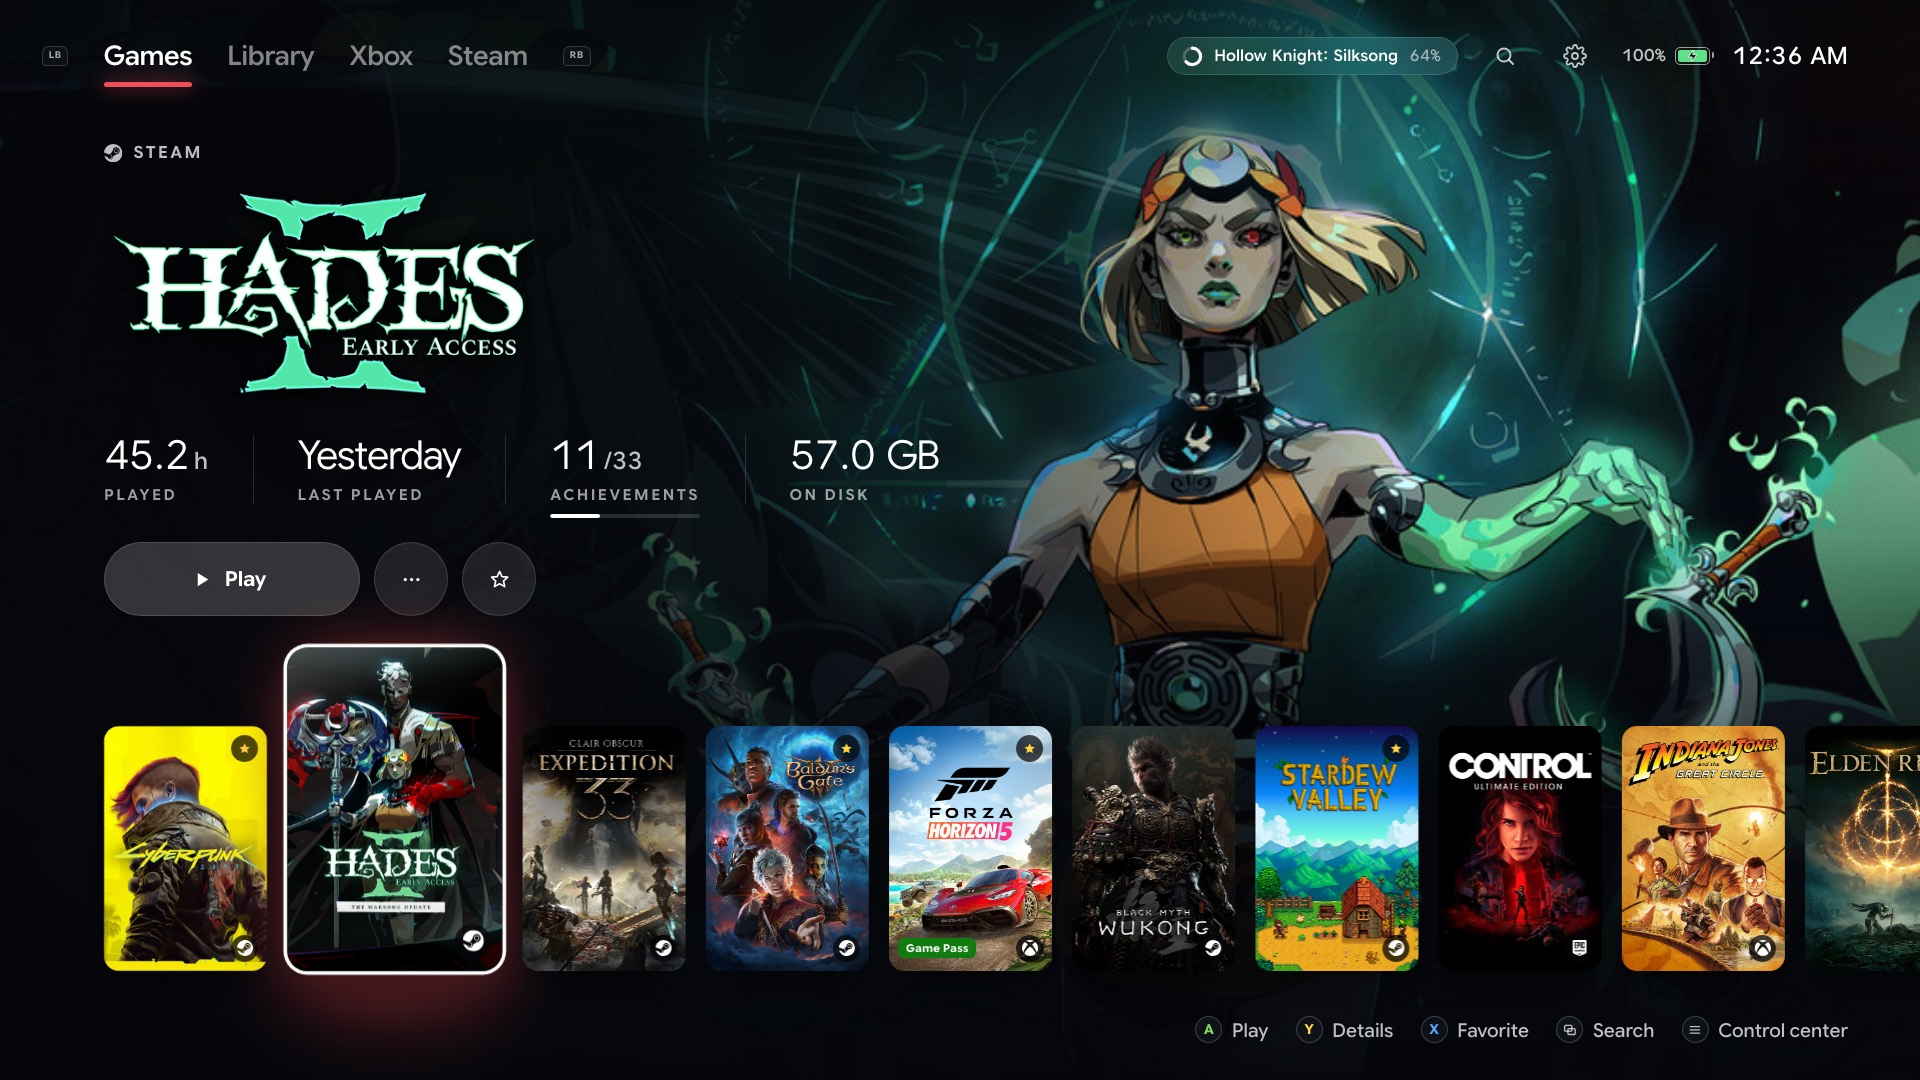
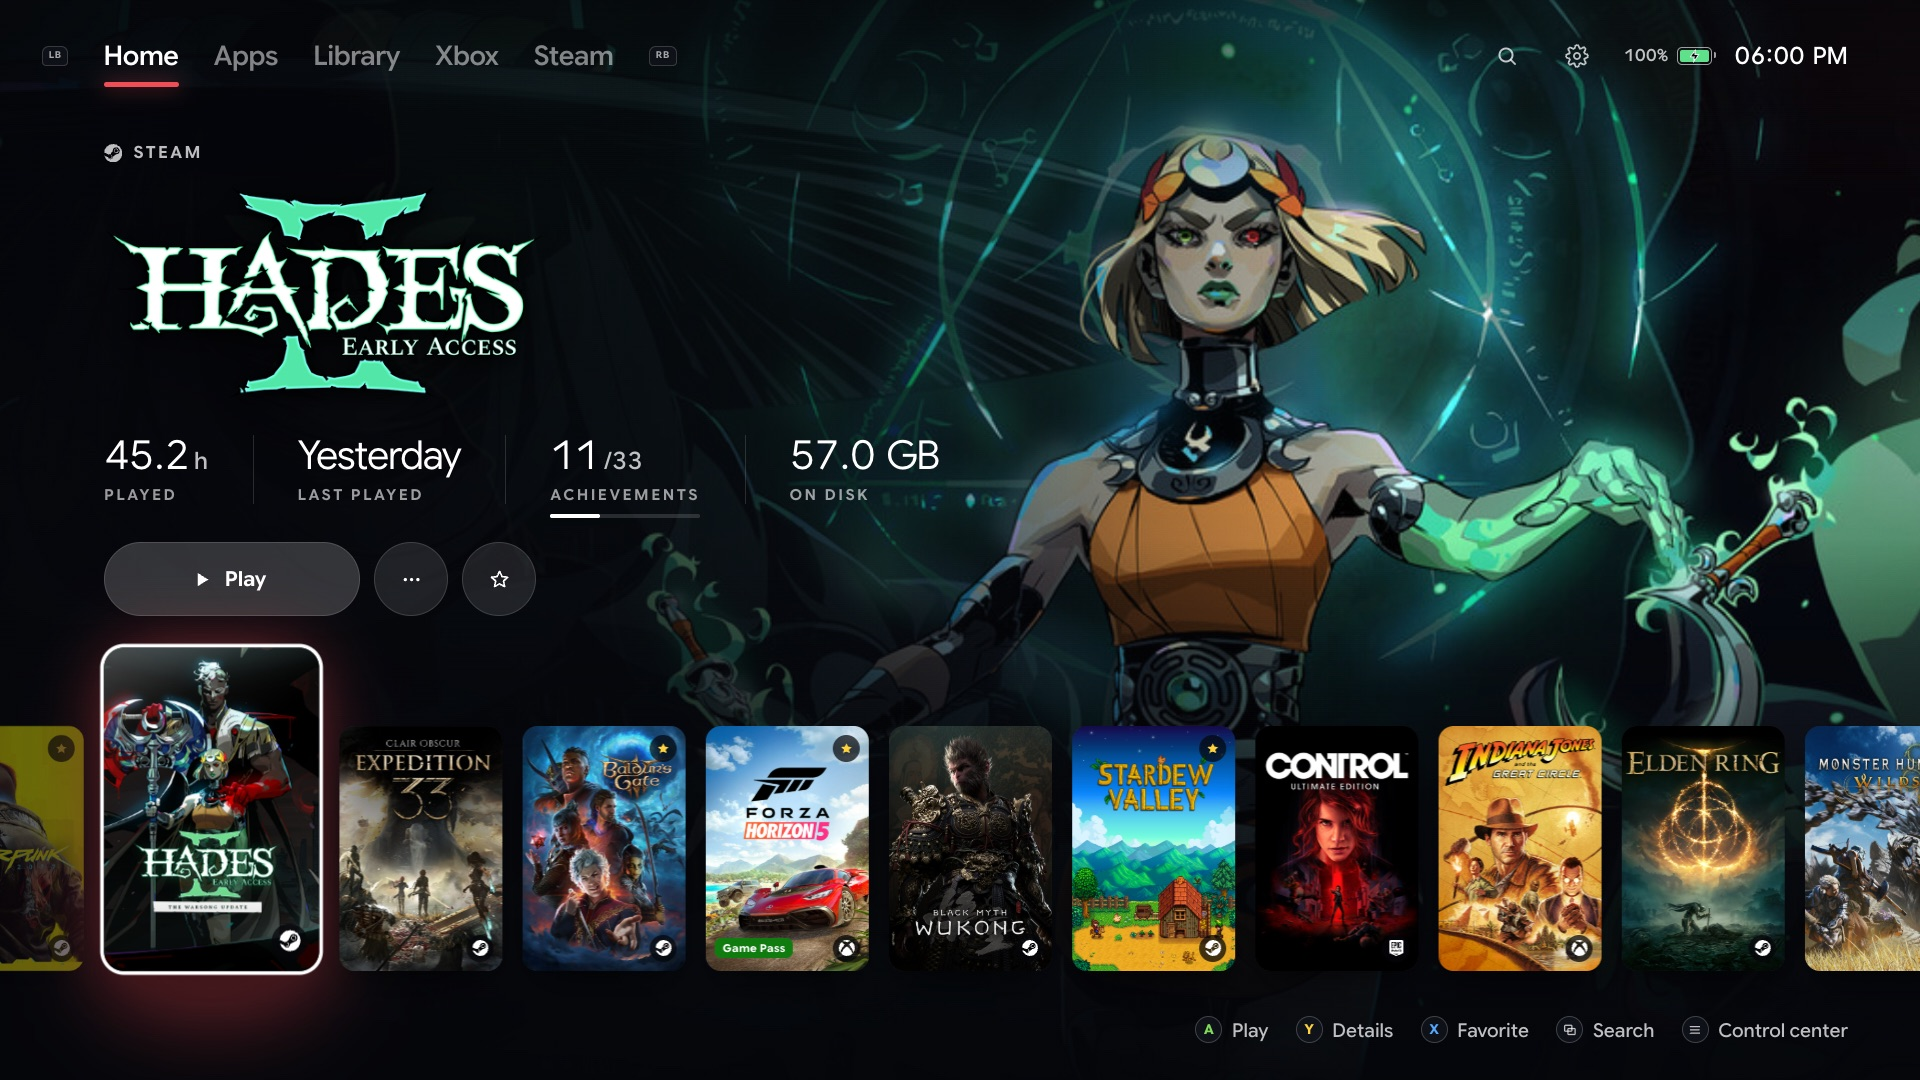
Retake the site's and README's screenshots with the Home tab

diff --git a/site/index.html b/site/index.html
@@ -264,10 +264,10 @@
             </div>
             <figure class="screen">
               <div class="screen-frame" id="screen" role="tabpanel" aria-labelledby="tab-home">
-                <img class="is-active" data-screen="home" src="/assets/img/home.webp?v=8" srcset="/assets/img/home-960.webp?v=8 960w, /assets/img/home.webp?v=8 1920w" sizes="(min-width: 1100px) 60vw, 100vw" width="1920" height="1080" alt="Mantel's Home screen: Hades II's art and logo with 45.2 hours played, a Play button, and a row of game covers below" fetchpriority="high">
-                <img data-screen="library" src="/assets/img/library.webp?v=9" srcset="/assets/img/library-960.webp?v=9 960w, /assets/img/library.webp?v=9 1920w" sizes="(min-width: 1100px) 60vw, 100vw" width="1920" height="1080" alt="Mantel's Library screen: a grid of game covers with filters for favorites, recent, most played, not installed and each store" loading="lazy">
-                <img data-screen="store" src="/assets/img/store.webp?v=9" srcset="/assets/img/store-960.webp?v=9 960w, /assets/img/store.webp?v=9 1920w" sizes="(min-width: 1100px) 60vw, 100vw" width="1920" height="1080" alt="Mantel's Steam tab showing the store: top sellers and new releases, with discounts on the covers." loading="lazy">
-                <img data-screen="details" src="/assets/img/details.webp?v=8" srcset="/assets/img/details-960.webp?v=8 960w, /assets/img/details.webp?v=8 1920w" sizes="(min-width: 1100px) 60vw, 100vw" width="1920" height="1080" alt="Mantel's game details screen for Hades II: playtime, Metacritic score, size on disk and Play, Favorite, Folder and Hide buttons" loading="lazy">
+                <img class="is-active" data-screen="home" src="/assets/img/home.webp?v=9" srcset="/assets/img/home-960.webp?v=9 960w, /assets/img/home.webp?v=9 1920w" sizes="(min-width: 1100px) 60vw, 100vw" width="1920" height="1080" alt="Mantel's Home screen: Hades II's art and logo with 45.2 hours played, a Play button, and a row of game covers below" fetchpriority="high">
+                <img data-screen="library" src="/assets/img/library.webp?v=10" srcset="/assets/img/library-960.webp?v=10 960w, /assets/img/library.webp?v=10 1920w" sizes="(min-width: 1100px) 60vw, 100vw" width="1920" height="1080" alt="Mantel's Library screen: a grid of game covers with filters for favorites, recent, most played, not installed and each store" loading="lazy">
+                <img data-screen="store" src="/assets/img/store.webp?v=10" srcset="/assets/img/store-960.webp?v=10 960w, /assets/img/store.webp?v=10 1920w" sizes="(min-width: 1100px) 60vw, 100vw" width="1920" height="1080" alt="Mantel's Steam tab showing the store: top sellers and new releases, with discounts on the covers." loading="lazy">
+                <img data-screen="details" src="/assets/img/details.webp?v=9" srcset="/assets/img/details-960.webp?v=9 960w, /assets/img/details.webp?v=9 1920w" sizes="(min-width: 1100px) 60vw, 100vw" width="1920" height="1080" alt="Mantel's game details screen for Hades II: playtime, Metacritic score, size on disk and Play, Favorite, Folder and Hide buttons" loading="lazy">
                 <div class="screen-gloss"></div>
                 <div class="shine"></div>
               </div>
@@ -309,42 +309,42 @@
         <div class="tour">
           <div class="tour-steps">
           <article class="step is-active" data-i="0" data-img="library" style="--z:1.12;--tx:-6.0%;--ty:-12.0%">
-            <div class="step-frame" aria-hidden="true"><img src="/assets/img/library.webp?v=9" alt="" width="1920" height="1080" loading="lazy" decoding="async"></div>
+            <div class="step-frame" aria-hidden="true"><img src="/assets/img/library.webp?v=10" alt="" width="1920" height="1080" loading="lazy" decoding="async"></div>
             <p class="eyebrow"><b>01</b> <span class="sep">/</span> 06 <span class="sep">·</span> Works on first launch</p>
             <h3 class="display">Finds your games</h3>
             <p class="step-text">Mantel finds installed games on its own: no plugins, no per-store setup.</p>
             <p class="step-where">Library · all games</p>
           </article>
           <article class="step" data-i="1" data-img="home" style="--z:2.6;--tx:-155.8%;--ty:-160.0%">
-            <div class="step-frame" aria-hidden="true"><img src="/assets/img/home.webp?v=8" alt="" width="1920" height="1080" loading="lazy" decoding="async"></div>
+            <div class="step-frame" aria-hidden="true"><img src="/assets/img/home.webp?v=9" alt="" width="1920" height="1080" loading="lazy" decoding="async"></div>
             <p class="eyebrow"><b>02</b> <span class="sep">/</span> 06 <span class="sep">·</span> Controller first</p>
             <h3 class="display">Pad, touch or keys</h3>
             <p class="step-text">Every screen works with the gamepad, the touchscreen or a keyboard. The control center (≡) sets volume and brightness, closes games, restarts or powers off the device. Several games can run at once, and each closes from its own card.</p>
             <p class="step-where">Home · hint bar</p>
           </article>
           <article class="step" data-i="2" data-img="home" style="--z:2.6;--tx:-4.2%;--ty:-61.9%">
-            <div class="step-frame" aria-hidden="true"><img src="/assets/img/home.webp?v=8" alt="" width="1920" height="1080" loading="lazy" decoding="async"></div>
+            <div class="step-frame" aria-hidden="true"><img src="/assets/img/home.webp?v=9" alt="" width="1920" height="1080" loading="lazy" decoding="async"></div>
             <p class="eyebrow"><b>03</b> <span class="sep">/</span> 06 <span class="sep">·</span> Playtime that adds up</p>
             <h3 class="display">Every hour counts</h3>
             <p class="step-text">Mantel times every session itself and, with your accounts connected, brings in playtime from Steam and Xbox across all your devices, along with each game's achievements.</p>
             <p class="step-where">Home · playtime</p>
           </article>
           <article class="step" data-i="3" data-img="store" style="--z:1.5;--tx:-4.0%;--ty:-9.0%">
-            <div class="step-frame" aria-hidden="true"><img src="/assets/img/store.webp?v=9" alt="" width="1920" height="1080" loading="lazy" decoding="async"></div>
+            <div class="step-frame" aria-hidden="true"><img src="/assets/img/store.webp?v=10" alt="" width="1920" height="1080" loading="lazy" decoding="async"></div>
             <p class="eyebrow"><b>04</b> <span class="sep">/</span> 06 <span class="sep">·</span> Your whole collection</p>
             <h3 class="display">Browse and install</h3>
             <p class="step-text">The Library holds everything you have from every store, installed or not. The Xbox and Steam tabs hold the PC Game Pass catalog and each store's lists by genre, and search reaches both stores. Game Pass games and what's on your Microsoft account install right in Mantel, Steam games through Steam's dialog, with progress on the home screen.</p>
             <p class="step-where">Steam · store</p>
           </article>
           <article class="step" data-i="4" data-img="details" style="--z:2.3;--tx:-2.7%;--ty:-27.7%">
-            <div class="step-frame" aria-hidden="true"><img src="/assets/img/details.webp?v=8" alt="" width="1920" height="1080" loading="lazy" decoding="async"></div>
+            <div class="step-frame" aria-hidden="true"><img src="/assets/img/details.webp?v=9" alt="" width="1920" height="1080" loading="lazy" decoding="async"></div>
             <p class="eyebrow"><b>05</b> <span class="sep">/</span> 06 <span class="sep">·</span> Steps aside while you play</p>
             <h3 class="display">Out of your way</h3>
             <p class="step-text">Mantel minimizes when a game starts and comes back when it exits. Next to the games, the Apps tab opens Spotify, Netflix, Discord, browsers and sites like YouTube, and closes them from their card.</p>
             <p class="step-where">Details · play</p>
           </article>
           <article class="step" data-i="5" data-img="home" style="--z:1.6;--tx:-30.0%;--ty:-60.0%">
-            <div class="step-frame" aria-hidden="true"><img src="/assets/img/home.webp?v=8" alt="" width="1920" height="1080" loading="lazy" decoding="async"></div>
+            <div class="step-frame" aria-hidden="true"><img src="/assets/img/home.webp?v=9" alt="" width="1920" height="1080" loading="lazy" decoding="async"></div>
             <p class="eyebrow"><b>06</b> <span class="sep">/</span> 06 <span class="sep">·</span> Art for everything</p>
             <h3 class="display">Art for everything</h3>
             <p class="step-text">Covers, backgrounds and logos come from Steam and GOG; a free SteamGridDB key covers the rest. Rest on a game and its trailer plays, muted, behind it.</p>
@@ -353,10 +353,10 @@
           </div>
           <div class="tour-view" aria-hidden="true">
             <div class="tour-frame" style="--z:1.12;--tx:-6.0%;--ty:-12.0%">
-              <img data-img="home" src="/assets/img/home.webp?v=8" alt="" width="1920" height="1080" loading="lazy" decoding="async">
-              <img data-img="library" class="is-active" src="/assets/img/library.webp?v=9" alt="" width="1920" height="1080" loading="lazy" decoding="async">
-              <img data-img="store" src="/assets/img/store.webp?v=9" alt="" width="1920" height="1080" loading="lazy" decoding="async">
-              <img data-img="details" src="/assets/img/details.webp?v=8" alt="" width="1920" height="1080" loading="lazy" decoding="async">
+              <img data-img="home" src="/assets/img/home.webp?v=9" alt="" width="1920" height="1080" loading="lazy" decoding="async">
+              <img data-img="library" class="is-active" src="/assets/img/library.webp?v=10" alt="" width="1920" height="1080" loading="lazy" decoding="async">
+              <img data-img="store" src="/assets/img/store.webp?v=10" alt="" width="1920" height="1080" loading="lazy" decoding="async">
+              <img data-img="details" src="/assets/img/details.webp?v=9" alt="" width="1920" height="1080" loading="lazy" decoding="async">
               <div class="screen-gloss"></div>
             </div>
             <div class="tour-glow"></div>
